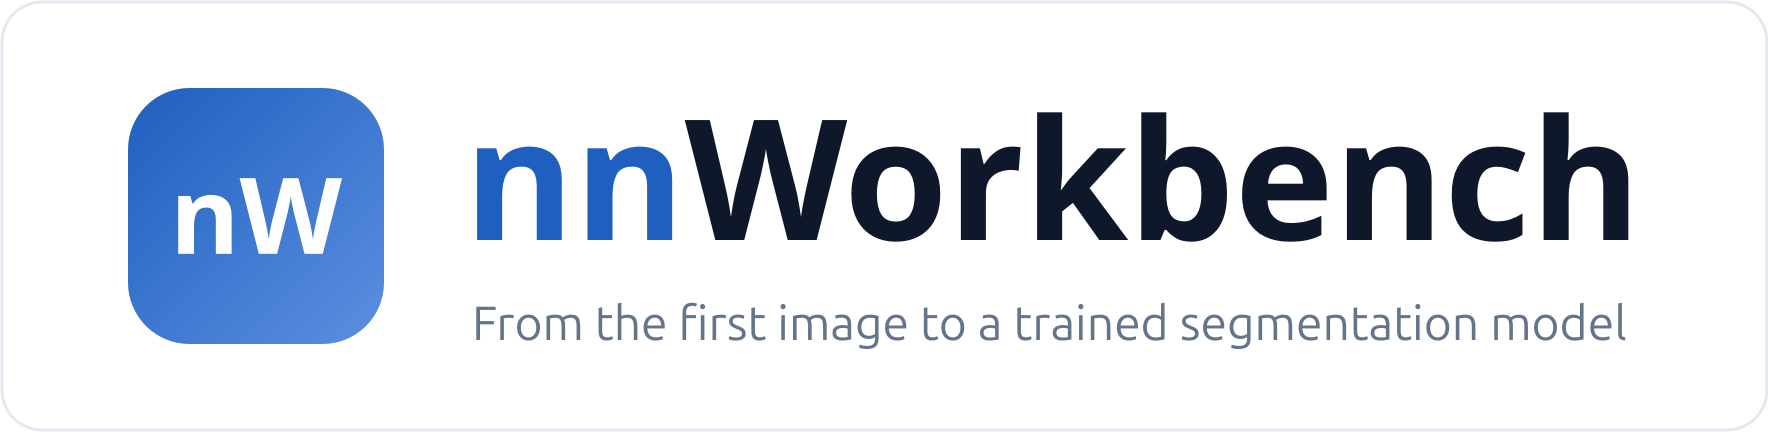
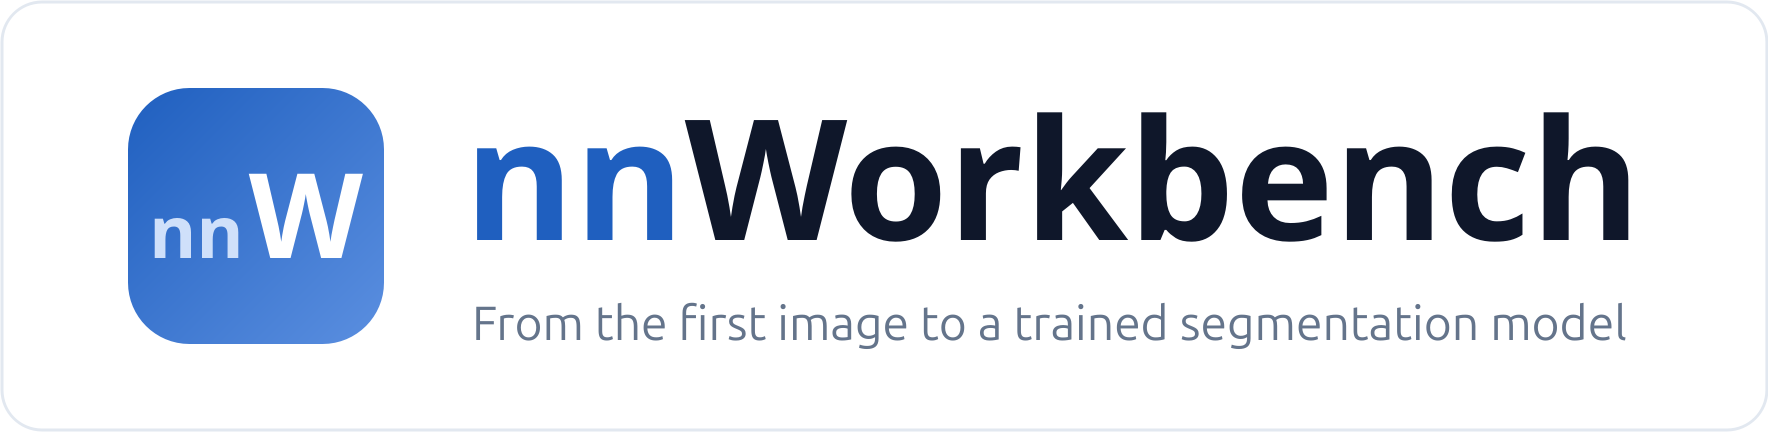
feat: new app mark with nn and W
A big W with a smaller nn on its baseline, drawn by paint_app_mark as
vectors (AppMark) in the app bar and the About dialog, and in the
regenerated README header.

Changed region(s): [[0.0622, 0.3912, 0.2178, 0.6019]]

diff --git a/src/nnworkbench/ui/widgets.py b/src/nnworkbench/ui/widgets.py
@@ -7,15 +7,17 @@ from datetime import datetime
 from pathlib import Path
 from typing import ClassVar
 
-from qtpy.QtCore import QByteArray, QPoint, QRect, QSize, Qt, QUrl, Signal
+from qtpy.QtCore import QByteArray, QPoint, QPointF, QRect, QRectF, QSize, Qt, QUrl, Signal
 from qtpy.QtGui import (
     QAction,
     QColor,
     QFont,
+    QFontMetricsF,
     QGuiApplication,
     QIcon,
     QIntValidator,
     QKeySequence,
+    QLinearGradient,
     QPainter,
     QPen,
     QPixmap,
@@ -94,6 +96,60 @@ def logo_label(name: str, height: int) -> QLabel:
     widget.setPixmap(pixmap)
     widget.setAlignment(Qt.AlignmentFlag.AlignCenter)
     return widget
+
+
+def paint_app_mark(painter: QPainter, rect: QRectF, family: str = "") -> None:
+    """The app mark: a big white W with a smaller pale-blue nn on its baseline, on the blue gradient.
+    ``family`` empty: the application font (the README header passes its own)."""
+    painter.save()
+    painter.setRenderHint(QPainter.RenderHint.Antialiasing)
+    painter.setRenderHint(QPainter.RenderHint.TextAntialiasing)
+    gradient = QLinearGradient(rect.topLeft(), rect.bottomRight())
+    gradient.setColorAt(0, QColor("#1f5fbf"))
+    gradient.setColorAt(1, QColor("#5b8fe0"))
+    painter.setPen(Qt.PenStyle.NoPen)
+    painter.setBrush(gradient)
+    radius = min(rect.width(), rect.height()) * 0.24
+    painter.drawRoundedRect(rect, radius, radius)
+
+    def font(pixels: float) -> QFont:
+        result = QFont(family) if family else QFont(QGuiApplication.font())
+        result.setPixelSize(max(1, round(pixels)))
+        result.setWeight(QFont.Weight.ExtraBold)
+        return result
+
+    # nn at 0.6 of the W; the pair fills at most 84 % of the width
+    size = rect.height() * 0.62
+    while True:
+        big, small = font(size), font(size * 0.6)
+        w_width = QFontMetricsF(big).horizontalAdvance("W")
+        nn_width = QFontMetricsF(small).horizontalAdvance("nn")
+        gap = rect.width() * 0.02
+        if nn_width + gap + w_width <= rect.width() * 0.84 or size <= 6:
+            break
+        size -= 0.5
+    x = rect.center().x() - (nn_width + gap + w_width) / 2
+    baseline = rect.center().y() + QFontMetricsF(big).tightBoundingRect("W").height() / 2
+    painter.setFont(small)
+    painter.setPen(QColor("#cfe0fa"))
+    painter.drawText(QPointF(x, baseline), "nn")
+    painter.setFont(big)
+    painter.setPen(QColor("#ffffff"))
+    painter.drawText(QPointF(x + nn_width + gap, baseline), "W")
+    painter.restore()
+
+
+class AppMark(QWidget):
+    """The app mark at a fixed size, drawn as vectors so it is sharp at every screen scaling."""
+
+    def __init__(self, size: int, parent=None) -> None:
+        super().__init__(parent)
+        self.setFixedSize(size, size)
+
+    def paintEvent(self, _event) -> None:
+        painter = QPainter(self)
+        paint_app_mark(painter, QRectF(self.rect()))
+        painter.end()
 
 
 def icon_label(name: str, size: int = 16) -> QLabel:

diff --git a/src/nnworkbench/ui/app_bar.py b/src/nnworkbench/ui/app_bar.py
@@ -3,11 +3,11 @@
 from __future__ import annotations
 
 from qtpy.QtCore import Qt, Signal
-from qtpy.QtWidgets import QFrame, QHBoxLayout, QLabel, QPushButton, QWidget
+from qtpy.QtWidgets import QFrame, QHBoxLayout, QPushButton, QWidget
 
 from nnworkbench.models.dataset import DatasetRecord
 
-from .widgets import ElidedLabel, ToggleSwitch, button, dataset_id_label, label
+from .widgets import AppMark, ElidedLabel, ToggleSwitch, button, dataset_id_label, label
 
 
 class AppBar(QFrame):
@@ -25,12 +25,7 @@ class AppBar(QFrame):
         row = QHBoxLayout(self)
         row.setContentsMargins(24, 0, 24, 0)
         row.setSpacing(12)
-        logo = QLabel("nW")
-        logo.setFixedSize(30, 30)
-        logo.setAlignment(Qt.AlignmentFlag.AlignCenter)
-        logo.setStyleSheet("background: qlineargradient(x1:0, y1:0, x2:1, y2:1, stop:0 #1f5fbf, stop:1 #5b8fe0);"
-                           "color: white; font-weight: 800; border-radius: 8px;")
-        row.addWidget(logo)
+        row.addWidget(AppMark(30))
         row.addWidget(label("nnWorkbench", name="h2"))
         divider = QFrame()
         divider.setFixedSize(1, 26)

diff --git a/src/nnworkbench/ui/about_dialog.py b/src/nnworkbench/ui/about_dialog.py
@@ -12,7 +12,7 @@ from qtpy.QtWidgets import QDialog, QGridLayout, QHBoxLayout, QLabel, QVBoxLayou
 
 from nnworkbench.services.device_probe import PYTORCH_URL, DeviceInfo
 
-from .widgets import Card, badge, button, icon_label, label, logo_label, separator, tip
+from .widgets import AppMark, Card, badge, button, icon_label, label, logo_label, separator, tip
 
 _WIDTH = 560
 
@@ -38,12 +38,7 @@ class AboutDialog(QDialog):
         layout.setSpacing(12)
         head = QHBoxLayout()
         head.setSpacing(12)
-        mark = QLabel("nW")
-        mark.setFixedSize(40, 40)
-        mark.setAlignment(Qt.AlignmentFlag.AlignCenter)
-        mark.setStyleSheet("background: qlineargradient(x1:0, y1:0, x2:1, y2:1, stop:0 #1f5fbf, stop:1 #5b8fe0);"
-                           "color: white; font-weight: 800; font-size: 16px; border-radius: 10px;")
-        head.addWidget(mark)
+        head.addWidget(AppMark(40))
         titles = QVBoxLayout()
         titles.setSpacing(0)
         titles.addWidget(label("nnWorkbench", name="h2"))

diff --git a/tests/test_ui_smoke.py b/tests/test_ui_smoke.py
@@ -493,3 +493,24 @@ def test_empty_dataset_list_says_what_to_do() -> None:
     finally:
         window.close()
         application.processEvents()
+
+
+def test_app_mark_is_drawn_in_the_app_bar_and_about() -> None:
+    from qtpy.QtGui import QColor
+
+    from nnworkbench.ui.about_dialog import AboutDialog
+    from nnworkbench.ui.widgets import AppMark
+
+    application = _application()
+    window = MainWindow()
+    about = AboutDialog(window)
+    try:
+        assert window.findChildren(AppMark) and about.findChildren(AppMark)
+        image = AppMark(40, window).grab().toImage()
+        colours = [QColor(image.pixel(x, y)) for x in range(40) for y in range(40)]
+        assert any(c.red() > 240 and c.green() > 240 and c.blue() > 240 for c in colours)  # the white W
+        assert any(c.blue() > 150 and c.red() < 120 for c in colours)  # the blue badge
+    finally:
+        about.close()
+        window.close()
+        application.processEvents()
